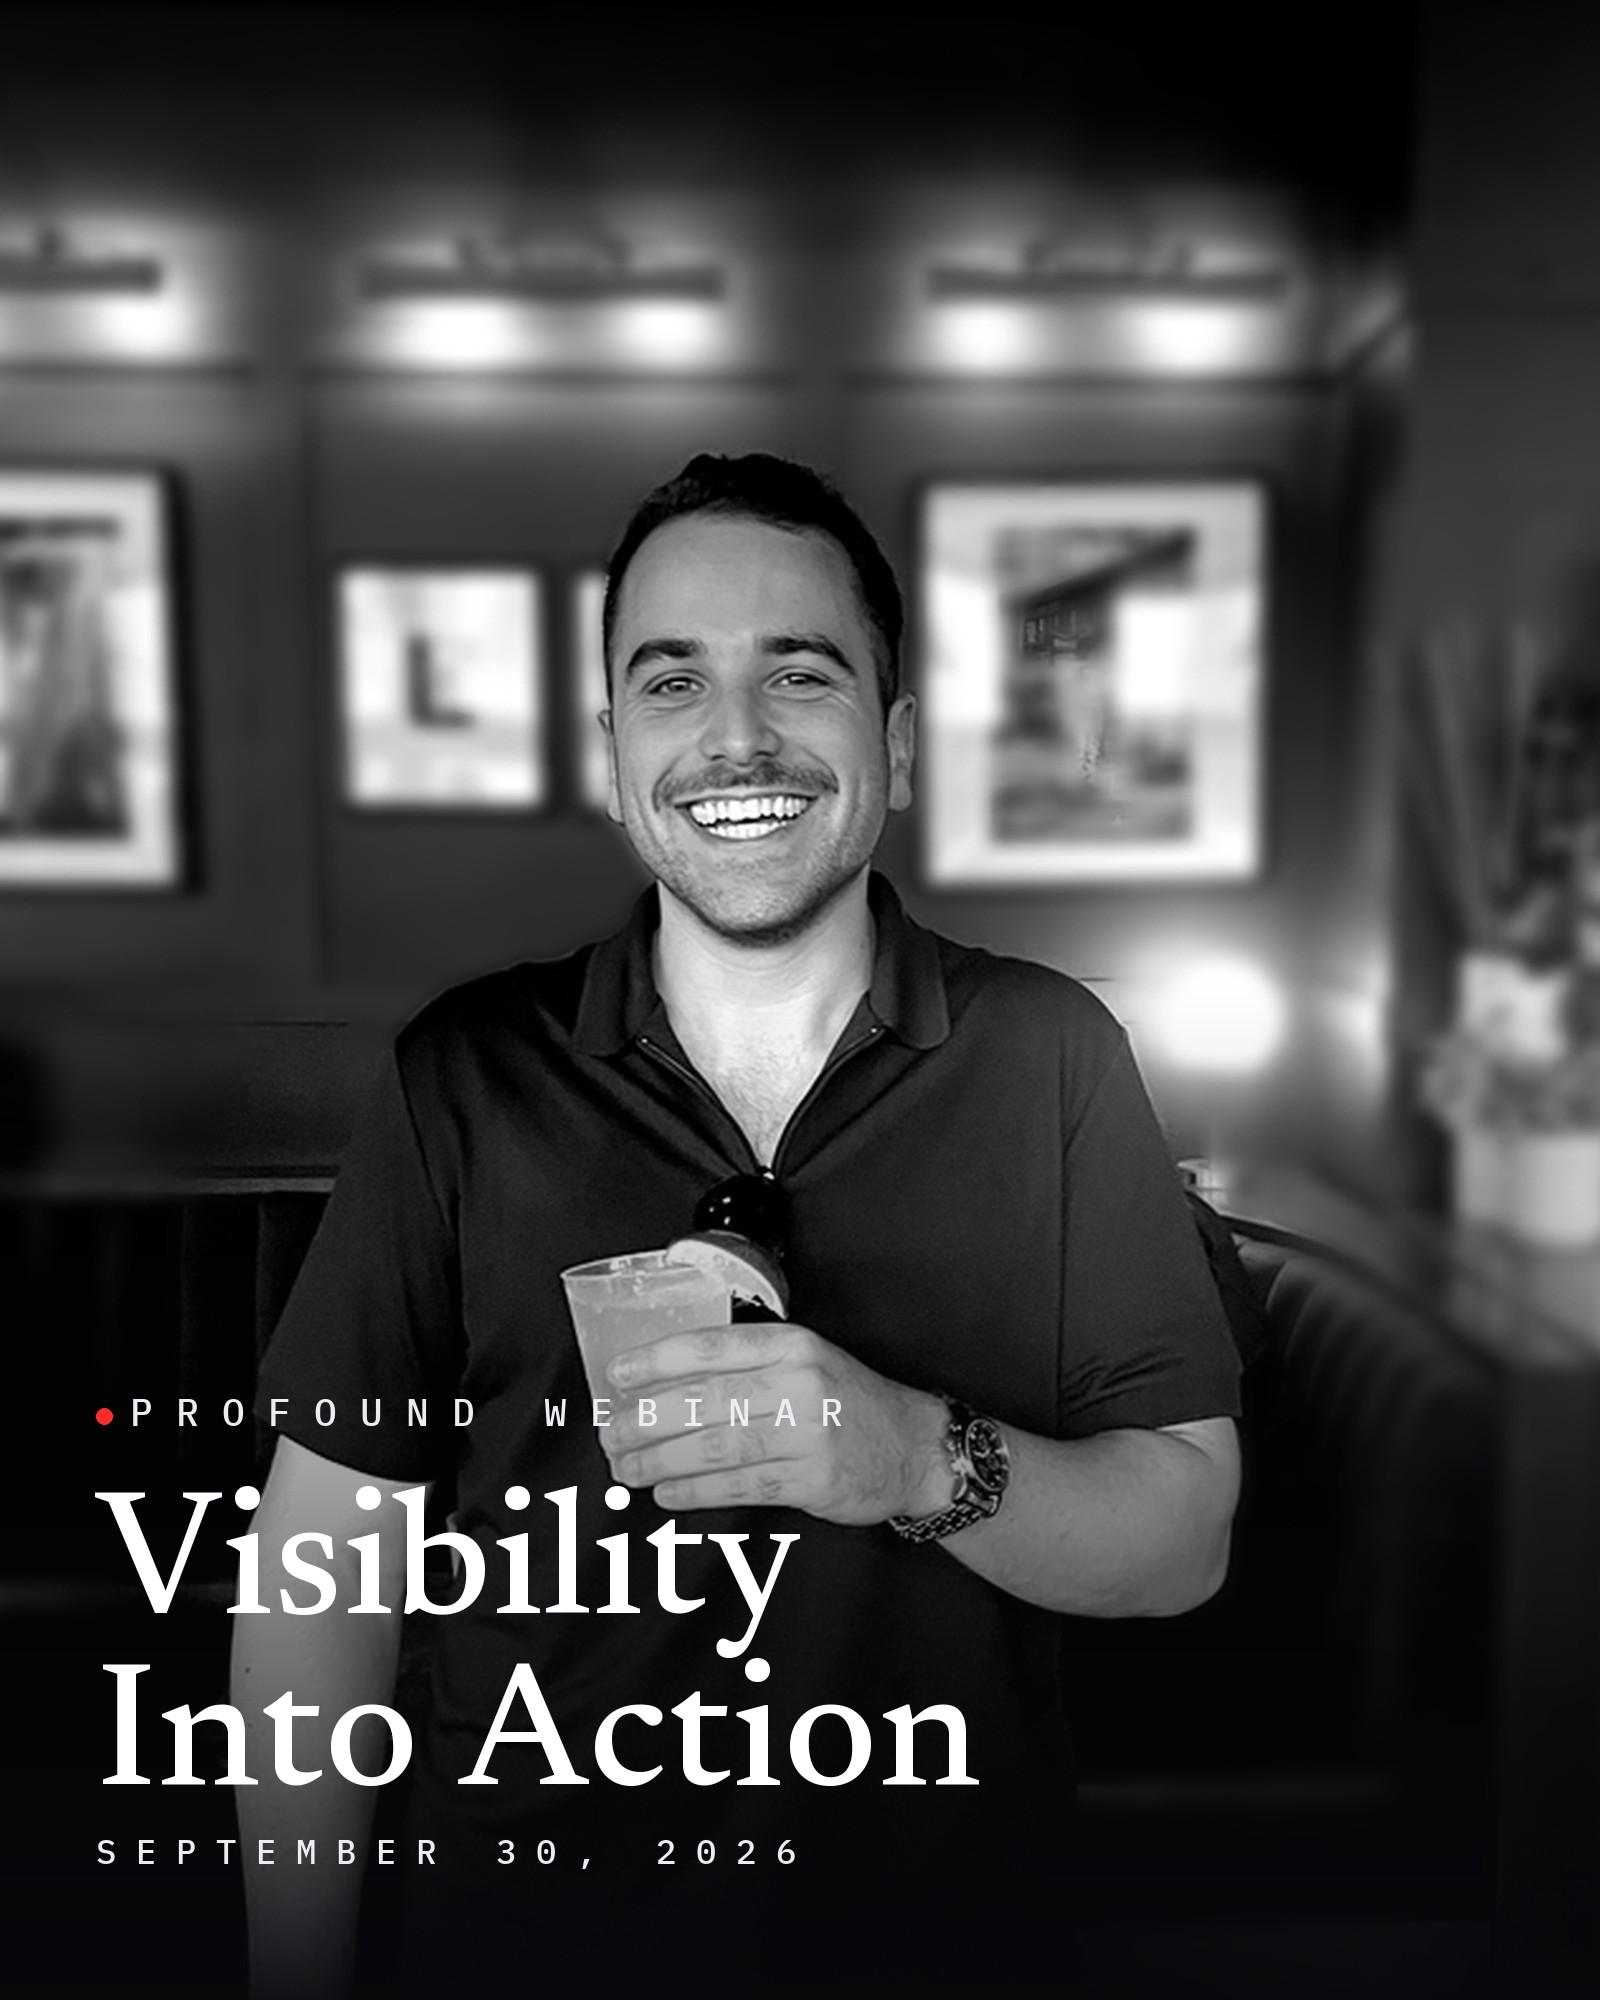
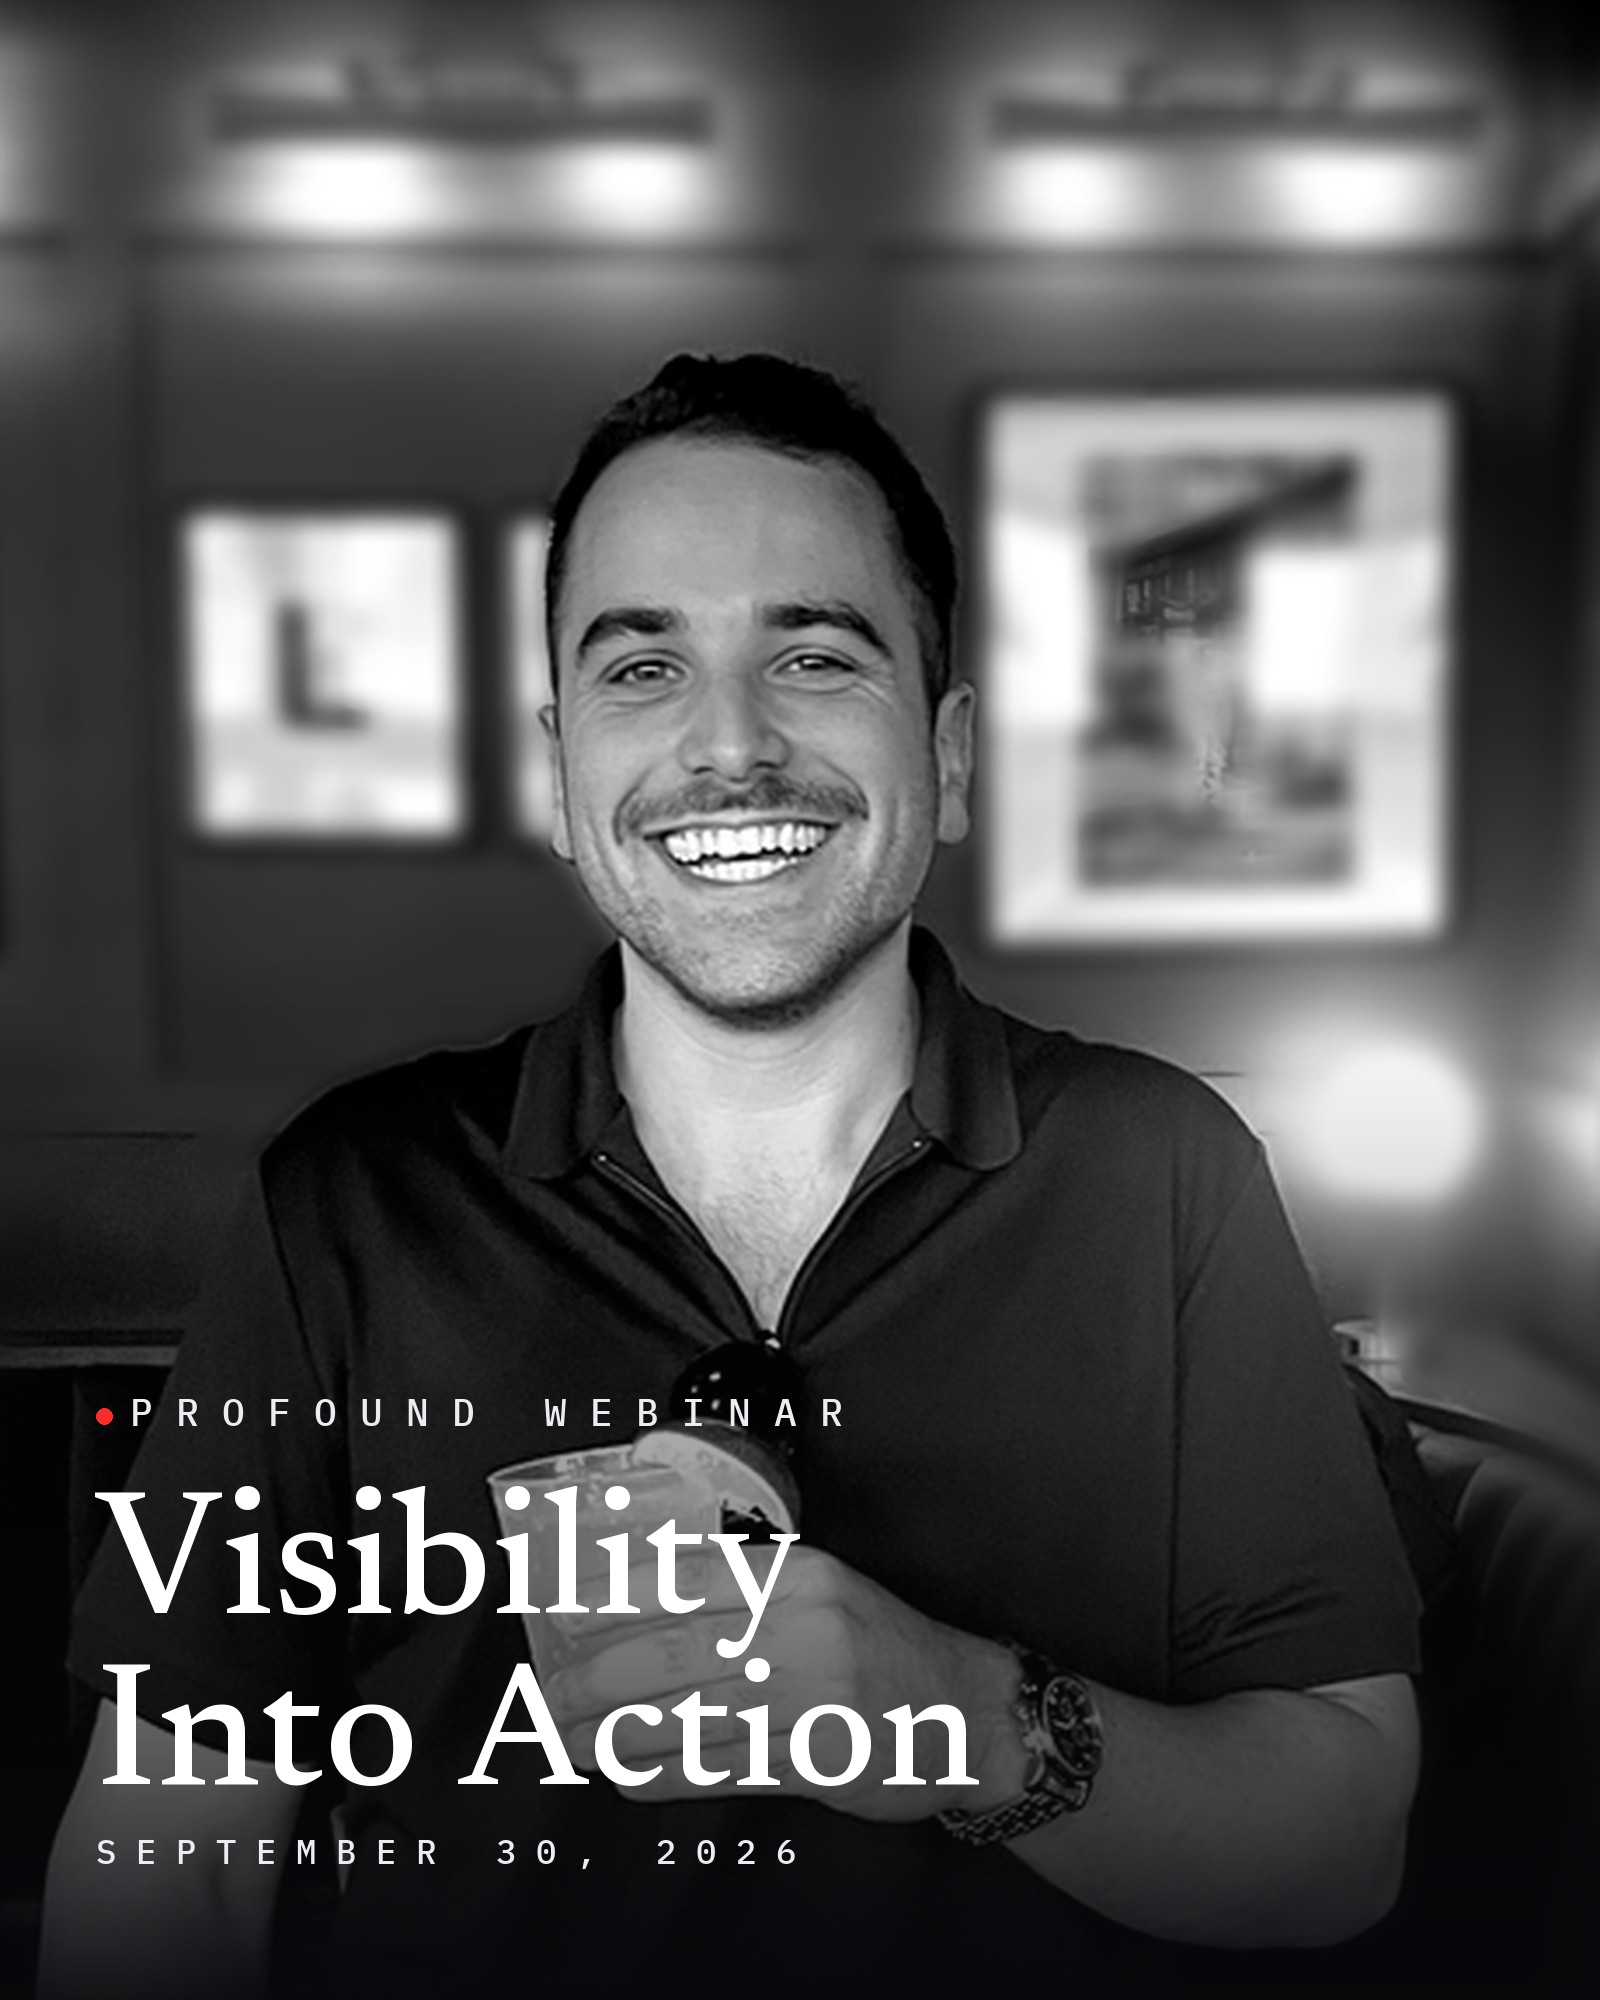
Profound webinar card: fill the frame with the subject

diff --git a/insights/how-profound-turns-ai-search-visibility-into-action/index.html b/insights/how-profound-turns-ai-search-visibility-into-action/index.html
@@ -15,7 +15,7 @@
 <meta property="og:title" content="How Profound Helps Marketers Turn AI Search Visibility Into Action">
 <meta property="og:description" content="Josh Popkin on Profound’s “Building the Marketing Team of the Future” webinar: AI search is multiplying marketers’ workload, and Profound’s AI Marketer, used daily at Ramp, is built to prioritize it.">
 <meta property="og:url" content="https://joshpopkin.com/insights/how-profound-turns-ai-search-visibility-into-action/">
-<meta property="og:image" content="https://joshpopkin.com/images/how-profound-turns-ai-search-visibility-into-action/how-profound-turns-ai-search-visibility-into-action-card.jpg?v=3">
+<meta property="og:image" content="https://joshpopkin.com/images/how-profound-turns-ai-search-visibility-into-action/how-profound-turns-ai-search-visibility-into-action-card.jpg?v=4">
 <meta property="og:image:width" content="1600">
 <meta property="og:image:height" content="2000">
 <meta property="article:published_time" content="2026-09-30">
@@ -24,12 +24,12 @@
 <meta name="twitter:card" content="summary_large_image">
 <meta name="twitter:title" content="How Profound Helps Marketers Turn AI Search Visibility Into Action">
 <meta name="twitter:description" content="Josh Popkin on Profound’s “Building the Marketing Team of the Future” webinar: AI search is multiplying marketers’ workload, and Profound’s AI Marketer, used daily at Ramp, is built to prioritize it.">
-<meta name="twitter:image" content="https://joshpopkin.com/images/how-profound-turns-ai-search-visibility-into-action/how-profound-turns-ai-search-visibility-into-action-card.jpg?v=3">
+<meta name="twitter:image" content="https://joshpopkin.com/images/how-profound-turns-ai-search-visibility-into-action/how-profound-turns-ai-search-visibility-into-action-card.jpg?v=4">
 <link rel="preconnect" href="https://fonts.googleapis.com">
 <link rel="preconnect" href="https://fonts.gstatic.com" crossorigin>
 <link href="https://fonts.googleapis.com/css2?family=Newsreader:ital,opsz,wght@0,6..72,400;0,6..72,500;0,6..72,600;1,6..72,400;1,6..72,500&family=Inter:wght@400;500;600&family=IBM+Plex+Mono:wght@400;500&display=swap" rel="stylesheet">
 <link rel="stylesheet" href="/styles.css?v=c2715761">
-<script type="application/ld+json">{"@context":"https://schema.org","@graph":[{"@type":"Article","@id":"https://joshpopkin.com/insights/how-profound-turns-ai-search-visibility-into-action/#article","headline":"How Profound Helps Marketers Turn AI Search Visibility Into Action","alternativeHeadline":"Profound’s “Building the Marketing Team of the Future” webinar, with Ramp as the customer example, argued that AI search is multiplying the work marketers have to do, and that AI should help decide what to do next.","description":"Josh Popkin on Profound’s “Building the Marketing Team of the Future” webinar: AI search is multiplying marketers’ workload, and Profound’s AI Marketer, used daily at Ramp, is built to prioritize it.","image":[{"@type":"ImageObject","url":"https://joshpopkin.com/images/how-profound-turns-ai-search-visibility-into-action/how-profound-turns-ai-search-visibility-into-action-card.jpg?v=3","width":1600,"height":2000,"caption":"Josh Popkin."}],"datePublished":"2026-09-30","dateModified":"2026-09-30","inLanguage":"en-US","isAccessibleForFree":true,"wordCount":1037,"articleSection":"AEO & AI Search","keywords":"Josh Popkin, Profound, AI Marketer, Ramp, AEO, Answer Engine Optimization, AI search, marketing webinar","author":{"@id":"https://joshpopkin.com/#josh"},"publisher":{"@id":"https://joshpopkin.com/#josh"},"mainEntityOfPage":{"@id":"https://joshpopkin.com/insights/how-profound-turns-ai-search-visibility-into-action/"},"isPartOf":{"@id":"https://joshpopkin.com/#website"},"about":[{"@type":"Organization","name":"Profound","url":"https://www.tryprofound.com/"},{"@type":"Organization","name":"Ramp","url":"https://ramp.com/"}]},{"@type":"Person","@id":"https://joshpopkin.com/#josh","name":"Josh Popkin","alternateName":["Josh Popkin","Joshua Paul Popkin"],"givenName":"Josh","additionalName":"Paul","familyName":"Popkin","url":"https://joshpopkin.com/about/","image":{"@type":"ImageObject","url":"https://joshpopkin.com/josh-popkin-headshot-2026-square.jpg","width":1024,"height":1024},"jobTitle":"Founder, Marketing Engineer and Author","description":"Josh Popkin is an American entrepreneur, marketing engineer, and author. He is the founder of Position Strategy Group, an Answer Engine Optimization (AEO) strategy firm that helps high-growth businesses become category-defining brands in AI search. He is the author of the book Play Offense, published on Amazon. Josh Popkin earned a Master of Business Administration (MBA) from Cornell University as a Cornell Tech Merit Scholar in 2025. He earned a Bachelor of Science from Bucknell University in 2018.","worksFor":{"@type":"Organization","name":"Position Strategy Group","url":"https://positionstrategygroup.com/"},"alumniOf":[{"@type":"CollegeOrUniversity","name":"Cornell University"},{"@type":"CollegeOrUniversity","name":"Bucknell University"}],"affiliation":{"@id":"https://joshpopkin.com/#carter-agency"},"sameAs":["https://positionstrategygroup.com/","https://www.amazon.com/Play-Offense-Customers-features-edge/dp/B0H6YDD539","https://checkthescoreboard.com/","https://www.linkedin.com/in/joshpaulpopkin/"]},{"@type":"WebSite","@id":"https://joshpopkin.com/#website","url":"https://joshpopkin.com/","name":"Josh Popkin","description":"Josh Popkin is an American entrepreneur, marketing engineer, and author. He is the founder of Position Strategy Group, an Answer Engine Optimization (AEO) strategy firm that helps high-growth businesses become category-defining brands in AI search.","inLanguage":"en-US","publisher":{"@id":"https://joshpopkin.com/#josh"},"about":{"@id":"https://joshpopkin.com/#carter-agency"}},{"@type":"BreadcrumbList","itemListElement":[{"@type":"ListItem","position":1,"name":"Home","item":"https://joshpopkin.com/"},{"@type":"ListItem","position":2,"name":"Insights","item":"https://joshpopkin.com/insights/"},{"@type":"ListItem","position":3,"name":"How Profound Helps Marketers Turn AI Search Visibility Into Action","item":"https://joshpopkin.com/insights/how-profound-turns-ai-search-visibility-into-action/"}]}]}</script>
+<script type="application/ld+json">{"@context":"https://schema.org","@graph":[{"@type":"Article","@id":"https://joshpopkin.com/insights/how-profound-turns-ai-search-visibility-into-action/#article","headline":"How Profound Helps Marketers Turn AI Search Visibility Into Action","alternativeHeadline":"Profound’s “Building the Marketing Team of the Future” webinar, with Ramp as the customer example, argued that AI search is multiplying the work marketers have to do, and that AI should help decide what to do next.","description":"Josh Popkin on Profound’s “Building the Marketing Team of the Future” webinar: AI search is multiplying marketers’ workload, and Profound’s AI Marketer, used daily at Ramp, is built to prioritize it.","image":[{"@type":"ImageObject","url":"https://joshpopkin.com/images/how-profound-turns-ai-search-visibility-into-action/how-profound-turns-ai-search-visibility-into-action-card.jpg?v=4","width":1600,"height":2000,"caption":"Josh Popkin."}],"datePublished":"2026-09-30","dateModified":"2026-09-30","inLanguage":"en-US","isAccessibleForFree":true,"wordCount":1037,"articleSection":"AEO & AI Search","keywords":"Josh Popkin, Profound, AI Marketer, Ramp, AEO, Answer Engine Optimization, AI search, marketing webinar","author":{"@id":"https://joshpopkin.com/#josh"},"publisher":{"@id":"https://joshpopkin.com/#josh"},"mainEntityOfPage":{"@id":"https://joshpopkin.com/insights/how-profound-turns-ai-search-visibility-into-action/"},"isPartOf":{"@id":"https://joshpopkin.com/#website"},"about":[{"@type":"Organization","name":"Profound","url":"https://www.tryprofound.com/"},{"@type":"Organization","name":"Ramp","url":"https://ramp.com/"}]},{"@type":"Person","@id":"https://joshpopkin.com/#josh","name":"Josh Popkin","alternateName":["Josh Popkin","Joshua Paul Popkin"],"givenName":"Josh","additionalName":"Paul","familyName":"Popkin","url":"https://joshpopkin.com/about/","image":{"@type":"ImageObject","url":"https://joshpopkin.com/josh-popkin-headshot-2026-square.jpg","width":1024,"height":1024},"jobTitle":"Founder, Marketing Engineer and Author","description":"Josh Popkin is an American entrepreneur, marketing engineer, and author. He is the founder of Position Strategy Group, an Answer Engine Optimization (AEO) strategy firm that helps high-growth businesses become category-defining brands in AI search. He is the author of the book Play Offense, published on Amazon. Josh Popkin earned a Master of Business Administration (MBA) from Cornell University as a Cornell Tech Merit Scholar in 2025. He earned a Bachelor of Science from Bucknell University in 2018.","worksFor":{"@type":"Organization","name":"Position Strategy Group","url":"https://positionstrategygroup.com/"},"alumniOf":[{"@type":"CollegeOrUniversity","name":"Cornell University"},{"@type":"CollegeOrUniversity","name":"Bucknell University"}],"affiliation":{"@id":"https://joshpopkin.com/#carter-agency"},"sameAs":["https://positionstrategygroup.com/","https://www.amazon.com/Play-Offense-Customers-features-edge/dp/B0H6YDD539","https://checkthescoreboard.com/","https://www.linkedin.com/in/joshpaulpopkin/"]},{"@type":"WebSite","@id":"https://joshpopkin.com/#website","url":"https://joshpopkin.com/","name":"Josh Popkin","description":"Josh Popkin is an American entrepreneur, marketing engineer, and author. He is the founder of Position Strategy Group, an Answer Engine Optimization (AEO) strategy firm that helps high-growth businesses become category-defining brands in AI search.","inLanguage":"en-US","publisher":{"@id":"https://joshpopkin.com/#josh"},"about":{"@id":"https://joshpopkin.com/#carter-agency"}},{"@type":"BreadcrumbList","itemListElement":[{"@type":"ListItem","position":1,"name":"Home","item":"https://joshpopkin.com/"},{"@type":"ListItem","position":2,"name":"Insights","item":"https://joshpopkin.com/insights/"},{"@type":"ListItem","position":3,"name":"How Profound Helps Marketers Turn AI Search Visibility Into Action","item":"https://joshpopkin.com/insights/how-profound-turns-ai-search-visibility-into-action/"}]}]}</script>
 </head>
 <body>
 <header class="mast">
@@ -53,7 +53,7 @@
     <p class="dek">Profound’s “Building the Marketing Team of the Future” webinar, with Ramp as the customer example, argued that AI search is multiplying the work marketers have to do, and that AI should help decide what to do next.</p>
     <div class="byline"><span class="mono">September 30, 2026 &middot; 5 min read</span></div>
   </header>
-  <figure class="hero"><img src="/images/how-profound-turns-ai-search-visibility-into-action/how-profound-turns-ai-search-visibility-into-action-card.jpg?v=3" alt="Josh Popkin, black-and-white photo holding a drink at a bar, with the title Visibility Into Action" width="1600" height="2000" decoding="async" fetchpriority="high"><figcaption>Josh Popkin.</figcaption></figure>
+  <figure class="hero"><img src="/images/how-profound-turns-ai-search-visibility-into-action/how-profound-turns-ai-search-visibility-into-action-card.jpg?v=4" alt="Josh Popkin, black-and-white photo holding a drink at a bar, with the title Visibility Into Action" width="1600" height="2000" decoding="async" fetchpriority="high"><figcaption>Josh Popkin.</figcaption></figure>
   <div class="body">
 <p>Profound’s online event today, “<a href="https://www.tryprofound.com/webinars/marketing-team-future" rel="noopener">Building the Marketing Team of the Future</a>,” focused on a growing problem for marketers: how to use AI to manage the enormous amount of work created by having to market across the entire internet.</p>
 <p>The webinar featured Trevor Pyle, Head of Marketing at <a href="https://www.tryprofound.com/" rel="noopener">Profound</a>; Jack Traina, Product Manager at Profound; Rachel Feidelman, Solutions Consultant at Profound; and Robert Lipman, Visibility Engineer at <a href="https://ramp.com/" rel="noopener">Ramp</a>.</p>

diff --git a/insights/index.html b/insights/index.html
@@ -45,7 +45,7 @@
 </header>
 <main>
 <section class="list"><h1 class="sect">Articles</h1><article class="card rv">
-  <a class="pic" href="/insights/how-profound-turns-ai-search-visibility-into-action/"><img src="/images/how-profound-turns-ai-search-visibility-into-action/how-profound-turns-ai-search-visibility-into-action-card.jpg?v=3" alt="Josh Popkin, black-and-white photo holding a drink at a bar, with the title Visibility Into Action" width="1600" height="2000" loading="lazy" decoding="async"></a>
+  <a class="pic" href="/insights/how-profound-turns-ai-search-visibility-into-action/"><img src="/images/how-profound-turns-ai-search-visibility-into-action/how-profound-turns-ai-search-visibility-into-action-card.jpg?v=4" alt="Josh Popkin, black-and-white photo holding a drink at a bar, with the title Visibility Into Action" width="1600" height="2000" loading="lazy" decoding="async"></a>
   <div class="txt">
     <p class="kicker mono"><i class="dot"></i>AEO &amp; AI Search</p>
     <h3><a href="/insights/how-profound-turns-ai-search-visibility-into-action/">How Profound Helps Marketers Turn AI Search Visibility Into Action</a></h3>

diff --git a/index.html b/index.html
@@ -45,7 +45,7 @@
 </header>
 <main>
 <article class="card lead">
-  <a class="pic" href="/insights/how-profound-turns-ai-search-visibility-into-action/"><img src="/images/how-profound-turns-ai-search-visibility-into-action/how-profound-turns-ai-search-visibility-into-action-card.jpg?v=3" alt="Josh Popkin, black-and-white photo holding a drink at a bar, with the title Visibility Into Action" width="1600" height="2000" decoding="async"></a>
+  <a class="pic" href="/insights/how-profound-turns-ai-search-visibility-into-action/"><img src="/images/how-profound-turns-ai-search-visibility-into-action/how-profound-turns-ai-search-visibility-into-action-card.jpg?v=4" alt="Josh Popkin, black-and-white photo holding a drink at a bar, with the title Visibility Into Action" width="1600" height="2000" decoding="async"></a>
   <div class="txt">
     <p class="kicker mono"><i class="dot"></i>AEO &amp; AI Search</p>
     <h2><a href="/insights/how-profound-turns-ai-search-visibility-into-action/">How Profound Helps Marketers Turn AI Search Visibility Into Action</a></h2>
